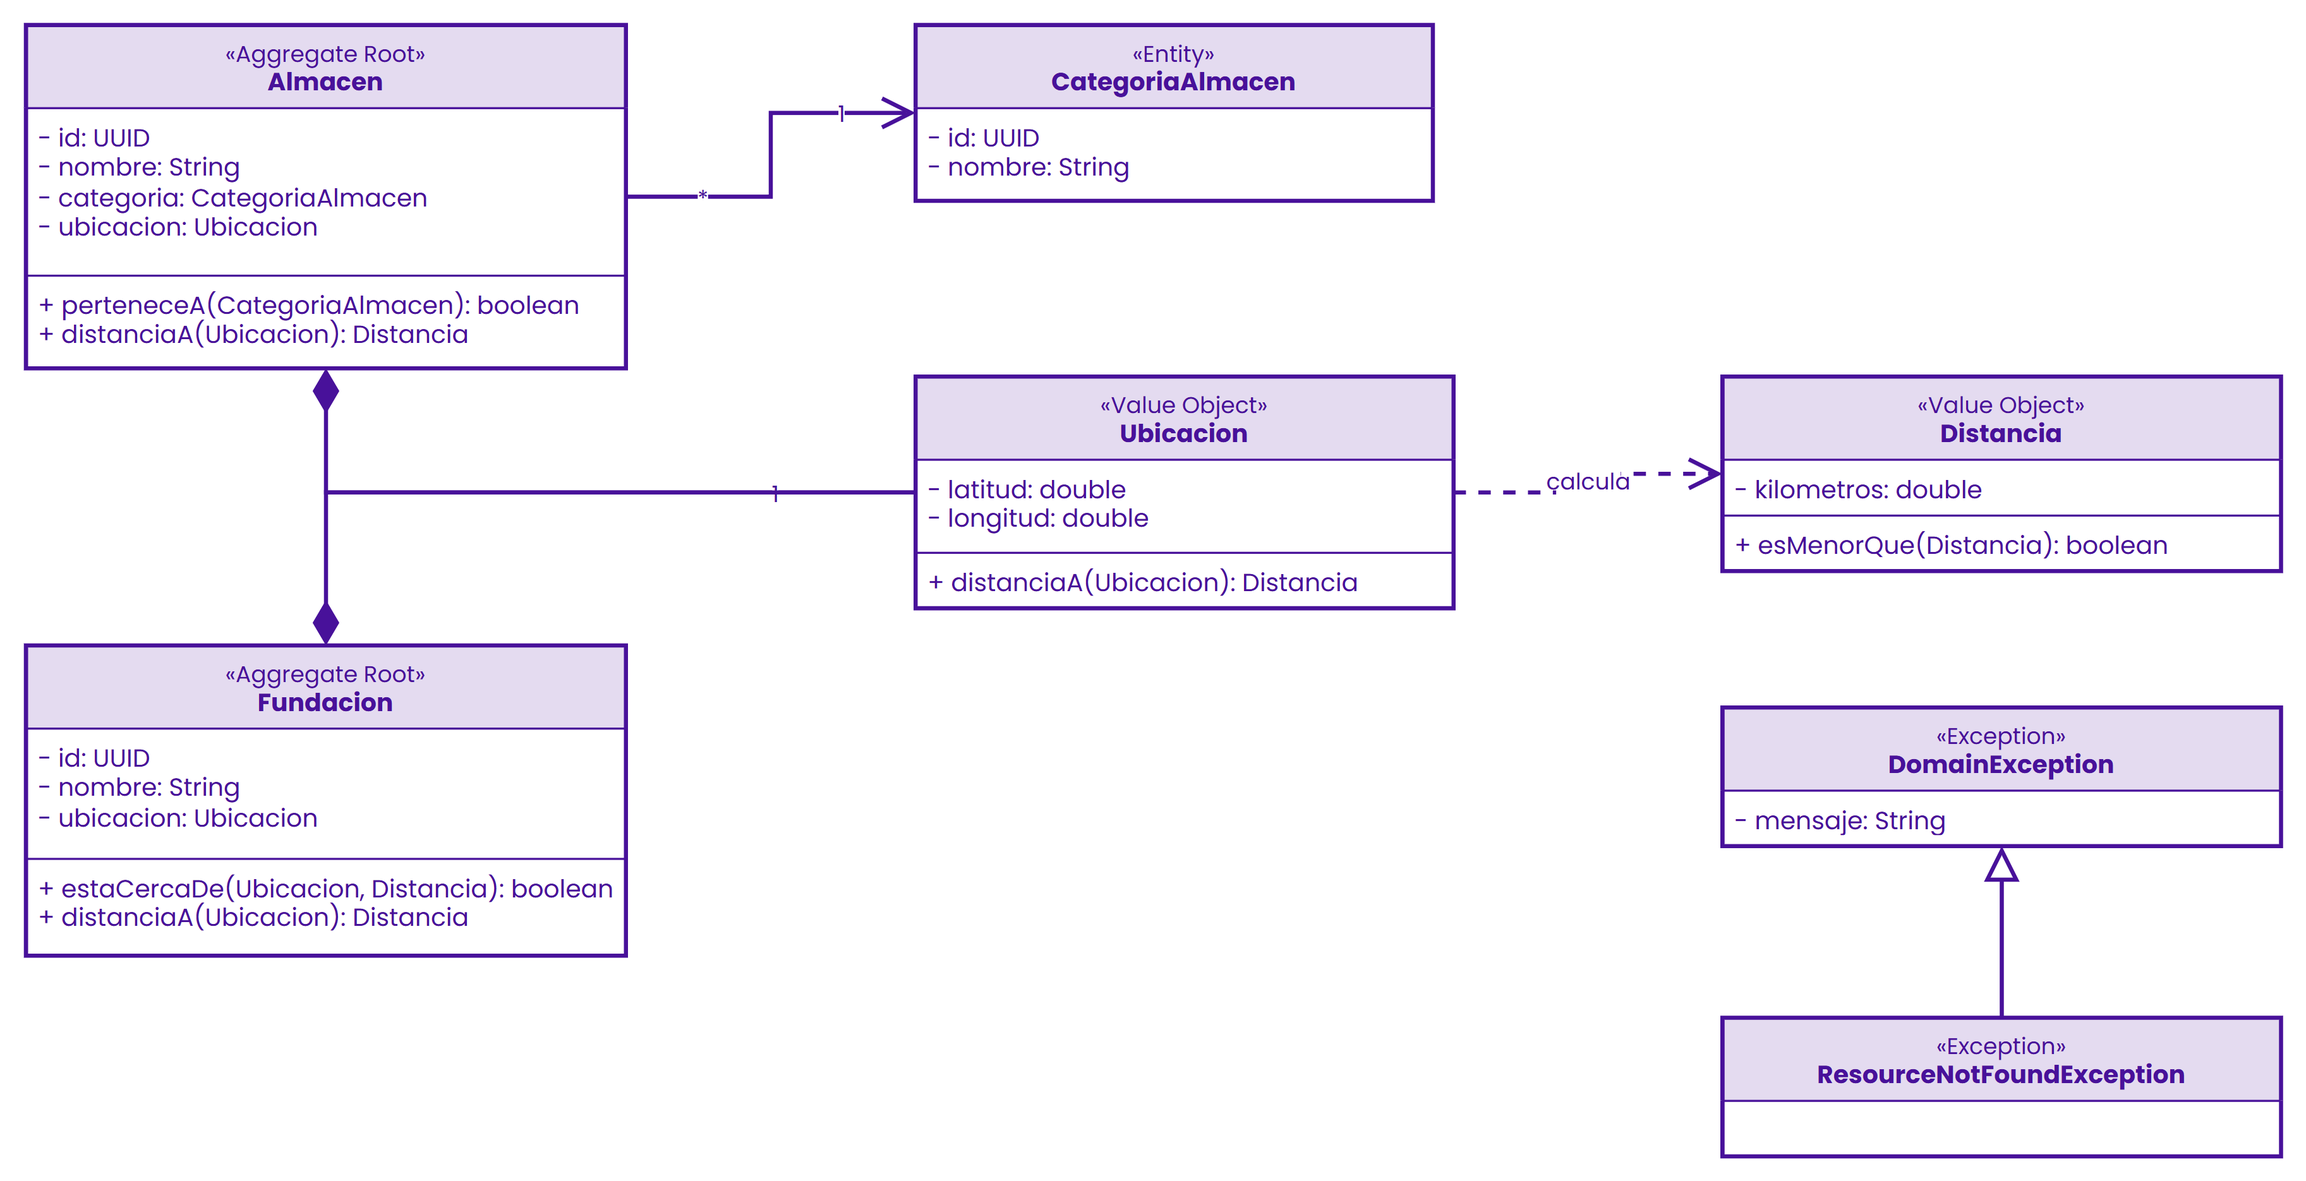
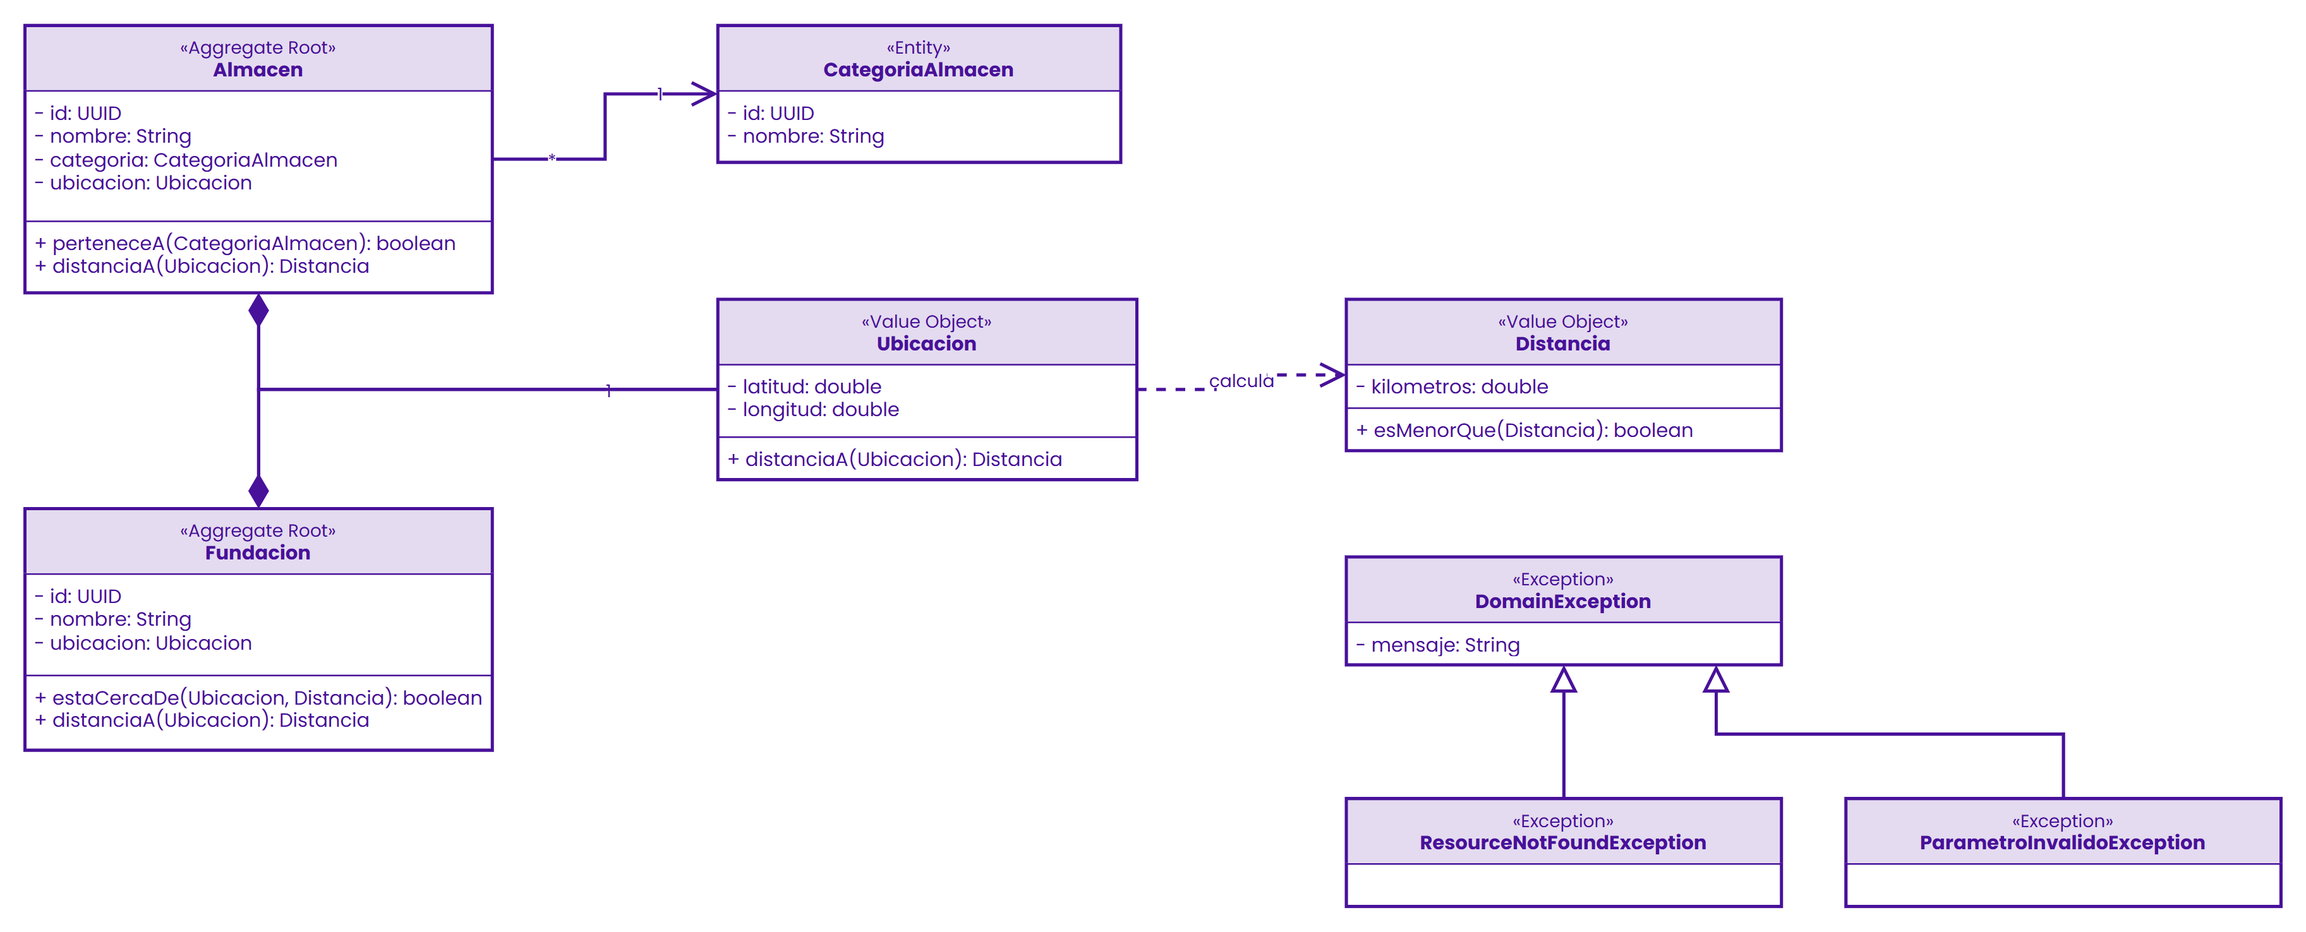
feat(almacenes): buscar almacenes por ubicación y crear las categorías unificadas

diff --git a/src/test/java/edu/dosw/styleradar/geolocalizacion/application/usecase/ConsultarAlmacenesUseCaseImplTest.java b/src/test/java/edu/dosw/styleradar/geolocalizacion/application/usecase/ConsultarAlmacenesUseCaseImplTest.java
@@ -1,49 +1,64 @@
 package edu.dosw.styleradar.geolocalizacion.application.usecase;
 
+import edu.dosw.styleradar.geolocalizacion.domain.exception.ParametroInvalidoException;
 import edu.dosw.styleradar.geolocalizacion.domain.model.Almacen;
 import edu.dosw.styleradar.geolocalizacion.domain.model.CategoriaAlmacen;
 import edu.dosw.styleradar.geolocalizacion.domain.model.Ubicacion;
 import edu.dosw.styleradar.geolocalizacion.domain.port.out.AlmacenRepositoryPort;
+import org.junit.jupiter.api.BeforeEach;
 import org.junit.jupiter.api.Test;
 
 import java.util.List;
 import java.util.UUID;
 
 import static org.assertj.core.api.Assertions.assertThat;
+import static org.assertj.core.api.Assertions.assertThatThrownBy;
 import static org.mockito.Mockito.mock;
+import static org.mockito.Mockito.verifyNoInteractions;
 import static org.mockito.Mockito.when;
 
 class ConsultarAlmacenesUseCaseImplTest {
 
     private final AlmacenRepositoryPort repository = mock(AlmacenRepositoryPort.class);
     private final ConsultarAlmacenesUseCaseImpl useCase = new ConsultarAlmacenesUseCaseImpl(repository);
-
     private final CategoriaAlmacen formal = new CategoriaAlmacen(UUID.randomUUID(), "Formal");
     private final CategoriaAlmacen urbano = new CategoriaAlmacen(UUID.randomUUID(), "Urbano");
-    private final Almacen sastreria = new Almacen(UUID.randomUUID(), "Sastrería", formal, new Ubicacion(4.67, -74.04));
-    private final Almacen calle = new Almacen(UUID.randomUUID(), "Calle 85", urbano, new Ubicacion(4.66, -74.05));
+    private final Almacen lejano = new Almacen(UUID.randomUUID(), "Lejano", formal, new Ubicacion(0, 0.04));
+    private final Almacen cercano = new Almacen(UUID.randomUUID(), "Cercano", urbano, new Ubicacion(0, 0.01));
+    private final Almacen fueraDelRadio = new Almacen(UUID.randomUUID(), "Fuera", urbano, new Ubicacion(0, 1));
+
+    @BeforeEach
+    void setUp() {
+        when(repository.findAll()).thenReturn(List.of(lejano, fueraDelRadio, cercano));
+    }
 
     @Test
-    void sinCategoriaDevuelveTodos() {
-        // Arrange
-        when(repository.findAll()).thenReturn(List.of(sastreria, calle));
-
-        // Act
-        List<Almacen> resultado = useCase.consultar(null);
-
-        // Assert
-        assertThat(resultado).containsExactly(sastreria, calle);
+    void devuelveLosDelRadioDelMasCercanoAlMasLejano() {
+        assertThat(useCase.consultar(null, 0, 0, 5)).containsExactly(cercano, lejano);
     }
 
     @Test
     void conCategoriaFiltraLosAlmacenes() {
-        // Arrange
-        when(repository.findAll()).thenReturn(List.of(sastreria, calle));
+        assertThat(useCase.consultar(urbano.id(), 0, 0, 5)).containsExactly(cercano);
+    }
 
-        // Act
-        List<Almacen> resultado = useCase.consultar(urbano.id());
+    @Test
+    void rechazaUbicacionORadioInvalidos() {
+        assertThatThrownBy(() -> useCase.consultar(null, 91, 0, 5)).isInstanceOf(ParametroInvalidoException.class);
+        assertThatThrownBy(() -> useCase.consultar(null, 0, -181, 5)).isInstanceOf(ParametroInvalidoException.class);
+        assertThatThrownBy(() -> useCase.consultar(null, 0, 0, 0)).isInstanceOf(ParametroInvalidoException.class);
+        assertThatThrownBy(() -> useCase.consultar(null, 0, 0, 21)).isInstanceOf(ParametroInvalidoException.class);
+    }
 
-        // Assert
-        assertThat(resultado).containsExactly(calle);
+    @Test
+    void noConsultaLaBaseSiLosParametrosSonInvalidos() {
+        UseCaseSinBase sinBase = new UseCaseSinBase();
+        assertThatThrownBy(() -> sinBase.useCase.consultar(null, 100, 0, 5)).isInstanceOf(ParametroInvalidoException.class);
+        verifyNoInteractions(sinBase.repository);
+    }
+
+    private static final class UseCaseSinBase {
+        private final AlmacenRepositoryPort repository = mock(AlmacenRepositoryPort.class);
+        private final ConsultarAlmacenesUseCaseImpl useCase = new ConsultarAlmacenesUseCaseImpl(repository);
     }
 }

diff --git a/src/test/java/edu/dosw/styleradar/geolocalizacion/GeolocalizacionIntegrationTest.java b/src/test/java/edu/dosw/styleradar/geolocalizacion/GeolocalizacionIntegrationTest.java
@@ -54,15 +54,16 @@ class GeolocalizacionIntegrationTest {
 
     @Test
     void listaLosAlmacenesDeLaBase() throws Exception {
-        mockMvc.perform(get("/almacenes"))
+        mockMvc.perform(get("/almacenes").param("lat", "4.6762").param("lng", "-74.0481").param("radioKm", "20"))
                 .andExpect(status().isOk())
                 .andExpect(jsonPath("$[*].nombre", hasItem("Calle 85 Store")));
     }
 
     @Test
     void filtraAlmacenesPorCategoria() throws Exception {
-        mockMvc.perform(get("/almacenes").param("categoriaId", "22222222-2222-2222-2222-222222222222"))
+        mockMvc.perform(get("/almacenes").param("lat", "4.6762").param("lng", "-74.0481").param("categoriaId", "22222222-2222-2222-2222-222222222222"))
                 .andExpect(status().isOk())
+                .andExpect(jsonPath("$[0].categoriaId").value("22222222-2222-2222-2222-222222222222"))
                 .andExpect(jsonPath("$[0].nombre").value("Calle 85 Store"));
     }
 
@@ -133,5 +134,21 @@ class GeolocalizacionIntegrationTest {
 
         Object mensaje = rabbitTemplate.receiveAndConvert("styleradar.geolocalizacion.dlq", 10000);
         assertThat(mensaje).isInstanceOf(Map.class);
+    }
+
+    @Test
+    void existenLasCategoriasDelAnalisis() throws Exception {
+        mockMvc.perform(get("/almacenes").param("lat", "4.6762").param("lng", "-74.0481").param("categoriaId", "66666666-6666-6666-6666-666666666666"))
+                .andExpect(status().isOk());
+    }
+
+    @Test
+    void responde400SiLaUbicacionOElRadioNoSonValidos() throws Exception {
+        mockMvc.perform(get("/almacenes").param("lng", "-74.0"))
+                .andExpect(status().isBadRequest());
+        mockMvc.perform(get("/almacenes").param("lat", "95").param("lng", "-74.0"))
+                .andExpect(status().isBadRequest());
+        mockMvc.perform(get("/almacenes").param("lat", "4.6").param("lng", "-74.0").param("radioKm", "25"))
+                .andExpect(status().isBadRequest());
     }
 }

diff --git a/src/main/java/edu/dosw/styleradar/geolocalizacion/application/usecase/ConsultarAlmacenesUseCaseImpl.java b/src/main/java/edu/dosw/styleradar/geolocalizacion/application/usecase/ConsultarAlmacenesUseCaseImpl.java
@@ -1,13 +1,18 @@
 package edu.dosw.styleradar.geolocalizacion.application.usecase;
 
+import edu.dosw.styleradar.geolocalizacion.domain.exception.ParametroInvalidoException;
 import edu.dosw.styleradar.geolocalizacion.domain.model.Almacen;
+import edu.dosw.styleradar.geolocalizacion.domain.model.Ubicacion;
 import edu.dosw.styleradar.geolocalizacion.domain.port.in.ConsultarAlmacenesUseCase;
 import edu.dosw.styleradar.geolocalizacion.domain.port.out.AlmacenRepositoryPort;
 
+import java.util.Comparator;
 import java.util.List;
 import java.util.UUID;
 
 public class ConsultarAlmacenesUseCaseImpl implements ConsultarAlmacenesUseCase {
+
+    private static final double RADIO_MAXIMO_KM = 20;
 
     private final AlmacenRepositoryPort almacenRepository;
 
@@ -16,11 +21,15 @@ public class ConsultarAlmacenesUseCaseImpl implements ConsultarAlmacenesUseCase 
     }
 
     @Override
-    public List<Almacen> consultar(UUID categoriaId) {
-        List<Almacen> almacenes = almacenRepository.findAll();
-        if (categoriaId == null) {
-            return almacenes;
+    public List<Almacen> consultar(UUID categoriaId, double latitud, double longitud, double radioKm) {
+        if (latitud < -90 || latitud > 90 || longitud < -180 || longitud > 180 || radioKm <= 0 || radioKm > RADIO_MAXIMO_KM) {
+            throw new ParametroInvalidoException("Falta un parámetro o tiene un formato inválido");
         }
-        return almacenes.stream().filter(a -> a.perteneceA(categoriaId)).toList();
+        Ubicacion usuario = new Ubicacion(latitud, longitud);
+        return almacenRepository.findAll().stream()
+                .filter(a -> categoriaId == null || a.perteneceA(categoriaId))
+                .filter(a -> a.distanciaA(usuario).kilometros() <= radioKm)
+                .sorted(Comparator.comparingDouble(a -> a.distanciaA(usuario).kilometros()))
+                .toList();
     }
 }

diff --git a/src/main/java/edu/dosw/styleradar/geolocalizacion/application/mapper/in/AlmacenMapperIn.java b/src/main/java/edu/dosw/styleradar/geolocalizacion/application/mapper/in/AlmacenMapperIn.java
@@ -4,6 +4,7 @@ import edu.dosw.styleradar.geolocalizacion.application.dto.response.AlmacenRespo
 import edu.dosw.styleradar.geolocalizacion.application.dto.response.DistanciaResponse;
 import edu.dosw.styleradar.geolocalizacion.domain.model.Almacen;
 import edu.dosw.styleradar.geolocalizacion.domain.model.Distancia;
+import edu.dosw.styleradar.geolocalizacion.domain.model.Ubicacion;
 
 import java.util.UUID;
 
@@ -12,13 +13,19 @@ public final class AlmacenMapperIn {
     private AlmacenMapperIn() {
     }
 
-    public static AlmacenResponse toResponse(Almacen almacen) {
+    public static AlmacenResponse toResponse(Almacen almacen, Ubicacion usuario) {
+        UUID categoriaId = almacen.categoria() == null ? null : almacen.categoria().id();
         String categoria = almacen.categoria() == null ? null : almacen.categoria().nombre();
-        return new AlmacenResponse(almacen.id(), almacen.nombre(), categoria,
-                almacen.ubicacion().latitud(), almacen.ubicacion().longitud());
+        Double distanciaKm = usuario == null ? null : redondear(almacen.distanciaA(usuario));
+        return new AlmacenResponse(almacen.id(), almacen.nombre(), categoriaId, categoria,
+                almacen.ubicacion().latitud(), almacen.ubicacion().longitud(), distanciaKm);
     }
 
     public static DistanciaResponse toResponse(UUID almacenId, Distancia distancia) {
-        return new DistanciaResponse(almacenId, Math.round(distancia.kilometros() * 100) / 100.0);
+        return new DistanciaResponse(almacenId, redondear(distancia));
+    }
+
+    public static double redondear(Distancia distancia) {
+        return Math.round(distancia.kilometros() * 100) / 100.0;
     }
 }

diff --git a/src/main/java/edu/dosw/styleradar/geolocalizacion/infrastructure/adapter/in/rest/AlmacenController.java b/src/main/java/edu/dosw/styleradar/geolocalizacion/infrastructure/adapter/in/rest/AlmacenController.java
@@ -2,6 +2,8 @@ package edu.dosw.styleradar.geolocalizacion.infrastructure.adapter.in.rest;
 
 import edu.dosw.styleradar.geolocalizacion.application.dto.response.AlmacenResponse;
 import edu.dosw.styleradar.geolocalizacion.application.mapper.in.AlmacenMapperIn;
+import edu.dosw.styleradar.geolocalizacion.domain.model.Almacen;
+import edu.dosw.styleradar.geolocalizacion.domain.model.Ubicacion;
 import edu.dosw.styleradar.geolocalizacion.domain.port.in.ConsultarAlmacenesUseCase;
 import edu.dosw.styleradar.geolocalizacion.infrastructure.adapter.in.rest.doc.AlmacenApi;
 import org.springframework.http.ResponseEntity;
@@ -25,9 +27,14 @@ public class AlmacenController implements AlmacenApi {
 
     @Override
     @GetMapping
-    public ResponseEntity<List<AlmacenResponse>> listar(@RequestParam(required = false) UUID categoriaId) {
-        return ResponseEntity.ok(consultarAlmacenes.consultar(categoriaId).stream()
-                .map(AlmacenMapperIn::toResponse)
+    public ResponseEntity<List<AlmacenResponse>> listar(@RequestParam double lat,
+                                                        @RequestParam double lng,
+                                                        @RequestParam(defaultValue = "5") double radioKm,
+                                                        @RequestParam(required = false) UUID categoriaId) {
+        List<Almacen> almacenes = consultarAlmacenes.consultar(categoriaId, lat, lng, radioKm);
+        Ubicacion usuario = new Ubicacion(lat, lng);
+        return ResponseEntity.ok(almacenes.stream()
+                .map(almacen -> AlmacenMapperIn.toResponse(almacen, usuario))
                 .toList());
     }
 }

diff --git a/src/test/java/edu/dosw/styleradar/geolocalizacion/application/mapper/MapperInTest.java b/src/test/java/edu/dosw/styleradar/geolocalizacion/application/mapper/MapperInTest.java
@@ -21,18 +21,23 @@ class MapperInTest {
     @Test
     void mapeaAlmacenConCategoria() {
         UUID id = UUID.randomUUID();
-        Almacen almacen = new Almacen(id, "Calle 85", new CategoriaAlmacen(UUID.randomUUID(), "Urbano"), new Ubicacion(4.66, -74.05));
+        UUID categoriaId = UUID.randomUUID();
+        Almacen almacen = new Almacen(id, "Calle 85", new CategoriaAlmacen(categoriaId, "Urbano"), new Ubicacion(4.66, -74.05));
 
-        AlmacenResponse response = AlmacenMapperIn.toResponse(almacen);
+        AlmacenResponse response = AlmacenMapperIn.toResponse(almacen, new Ubicacion(4.66, -74.05));
 
-        assertThat(response).isEqualTo(new AlmacenResponse(id, "Calle 85", "Urbano", 4.66, -74.05));
+        assertThat(response).isEqualTo(new AlmacenResponse(id, "Calle 85", categoriaId, "Urbano", 4.66, -74.05, 0.0));
     }
 
     @Test
     void mapeaAlmacenSinCategoria() {
         Almacen almacen = new Almacen(UUID.randomUUID(), "Sin categoría", null, new Ubicacion(4.66, -74.05));
 
-        assertThat(AlmacenMapperIn.toResponse(almacen).categoria()).isNull();
+        AlmacenResponse response = AlmacenMapperIn.toResponse(almacen, null);
+
+        assertThat(response.categoria()).isNull();
+        assertThat(response.categoriaId()).isNull();
+        assertThat(response.distanciaKm()).isNull();
     }
 
     @Test

diff --git a/src/main/java/edu/dosw/styleradar/geolocalizacion/infrastructure/adapter/in/rest/doc/AlmacenApi.java b/src/main/java/edu/dosw/styleradar/geolocalizacion/infrastructure/adapter/in/rest/doc/AlmacenApi.java
@@ -14,9 +14,13 @@ import java.util.UUID;
 public interface AlmacenApi {
 
     @Operation(summary = "Listar almacenes del mapa",
-            description = "Devuelve los almacenes aliados con su ubicación. Si se envía categoriaId, solo los de esa categoría (SR-RF-17, SR-RF-18).")
+            description = "Devuelve los almacenes aliados dentro del radio, del más cercano al más lejano, con su distanciaKm. "
+                    + "Si se envía categoriaId, solo los de esa categoría (SR-RF-17, SR-RF-18).")
     @ApiResponse(responseCode = "200", description = "Lista de almacenes")
-    @ApiResponse(responseCode = "400", description = "categoriaId no es un UUID válido")
+    @ApiResponse(responseCode = "400", description = "Falta lat o lng, están fuera de rango, radioKm no es válido o categoriaId no es un UUID")
     ResponseEntity<List<AlmacenResponse>> listar(
+            @Parameter(description = "Latitud del usuario", example = "4.6762") double lat,
+            @Parameter(description = "Longitud del usuario", example = "-74.0481") double lng,
+            @Parameter(description = "Radio en km, mayor que 0 y máximo 20", example = "5") double radioKm,
             @Parameter(description = "Filtra por categoría del almacén") UUID categoriaId);
 }

diff --git a/src/main/java/edu/dosw/styleradar/geolocalizacion/infrastructure/exception/GlobalExceptionHandler.java b/src/main/java/edu/dosw/styleradar/geolocalizacion/infrastructure/exception/GlobalExceptionHandler.java
@@ -1,6 +1,7 @@
 package edu.dosw.styleradar.geolocalizacion.infrastructure.exception;
 
 import edu.dosw.styleradar.geolocalizacion.domain.exception.DomainException;
+import edu.dosw.styleradar.geolocalizacion.domain.exception.ParametroInvalidoException;
 import edu.dosw.styleradar.geolocalizacion.domain.exception.ResourceNotFoundException;
 import org.springframework.http.HttpStatus;
 import org.springframework.http.ProblemDetail;
@@ -21,6 +22,11 @@ public class GlobalExceptionHandler {
     @ExceptionHandler(ResourceNotFoundException.class)
     public ProblemDetail handleNotFound(ResourceNotFoundException ex) {
         return problem(HttpStatus.NOT_FOUND, "Recurso no encontrado", ex.getMessage());
+    }
+
+    @ExceptionHandler(ParametroInvalidoException.class)
+    public ProblemDetail handleParametroInvalido(ParametroInvalidoException ex) {
+        return problem(HttpStatus.BAD_REQUEST, "Solicitud inválida", ex.getMessage());
     }
 
     @ExceptionHandler(DomainException.class)

diff --git a/src/test/java/edu/dosw/styleradar/geolocalizacion/infrastructure/adapter/in/rest/ControllersTest.java b/src/test/java/edu/dosw/styleradar/geolocalizacion/infrastructure/adapter/in/rest/ControllersTest.java
@@ -29,14 +29,15 @@ class ControllersTest {
         // Arrange
         ConsultarAlmacenesUseCase useCase = mock(ConsultarAlmacenesUseCase.class);
         Almacen almacen = new Almacen(UUID.randomUUID(), "Calle 85", null, new Ubicacion(4.66, -74.05));
-        when(useCase.consultar(null)).thenReturn(List.of(almacen));
+        when(useCase.consultar(null, 4.66, -74.05, 5)).thenReturn(List.of(almacen));
 
         // Act
-        ResponseEntity<List<AlmacenResponse>> response = new AlmacenController(useCase).listar(null);
+        ResponseEntity<List<AlmacenResponse>> response = new AlmacenController(useCase).listar(4.66, -74.05, 5, null);
 
         // Assert
         assertThat(response.getStatusCode()).isEqualTo(HttpStatus.OK);
         assertThat(response.getBody()).extracting(AlmacenResponse::nombre).containsExactly("Calle 85");
+        assertThat(response.getBody()).extracting(AlmacenResponse::distanciaKm).containsExactly(0.0);
     }
 
     @Test

diff --git a/src/main/java/edu/dosw/styleradar/geolocalizacion/application/mapper/in/FundacionMapperIn.java b/src/main/java/edu/dosw/styleradar/geolocalizacion/application/mapper/in/FundacionMapperIn.java
@@ -12,6 +12,6 @@ public final class FundacionMapperIn {
     public static FundacionResponse toResponse(Fundacion fundacion, Ubicacion usuario) {
         return new FundacionResponse(fundacion.id(), fundacion.nombre(),
                 fundacion.ubicacion().latitud(), fundacion.ubicacion().longitud(),
-                fundacion.distanciaA(usuario).kilometros());
+                AlmacenMapperIn.redondear(fundacion.distanciaA(usuario)));
     }
 }

diff --git a/src/main/java/edu/dosw/styleradar/geolocalizacion/application/dto/response/AlmacenResponse.java b/src/main/java/edu/dosw/styleradar/geolocalizacion/application/dto/response/AlmacenResponse.java
@@ -2,5 +2,6 @@ package edu.dosw.styleradar.geolocalizacion.application.dto.response;
 
 import java.util.UUID;
 
-public record AlmacenResponse(UUID id, String nombre, String categoria, double latitud, double longitud) {
+public record AlmacenResponse(UUID id, String nombre, UUID categoriaId, String categoria, double latitud, double longitud,
+                              Double distanciaKm) {
 }

diff --git a/src/main/java/edu/dosw/styleradar/geolocalizacion/domain/exception/ParametroInvalidoException.java b/src/main/java/edu/dosw/styleradar/geolocalizacion/domain/exception/ParametroInvalidoException.java
@@ -1,0 +1,8 @@
+package edu.dosw.styleradar.geolocalizacion.domain.exception;
+
+public class ParametroInvalidoException extends DomainException {
+
+    public ParametroInvalidoException(String message) {
+        super(message);
+    }
+}
